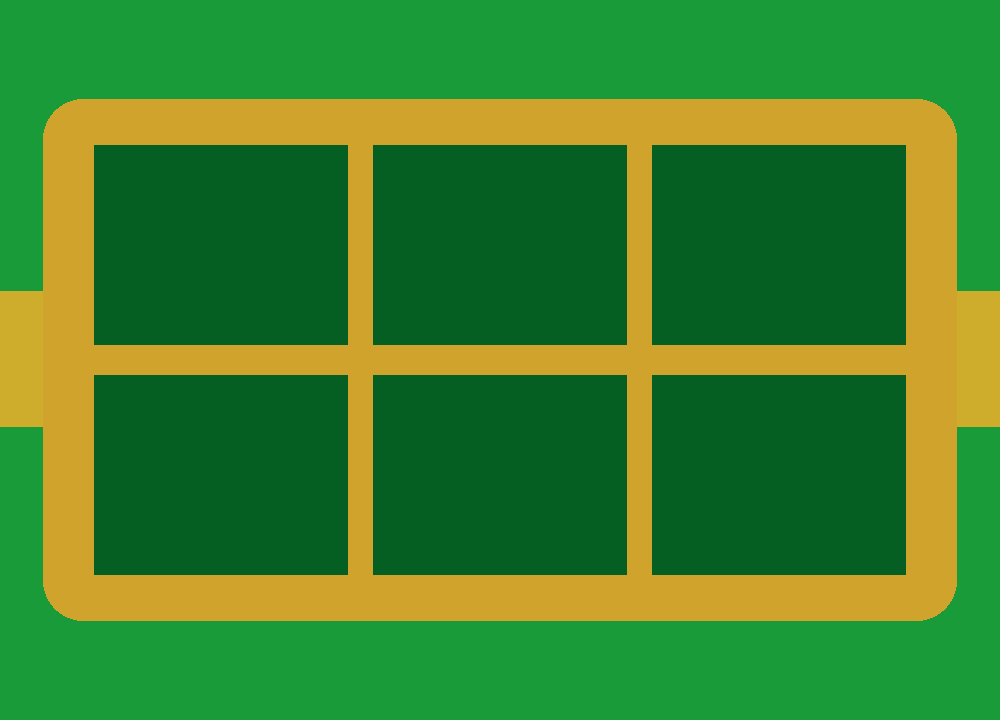
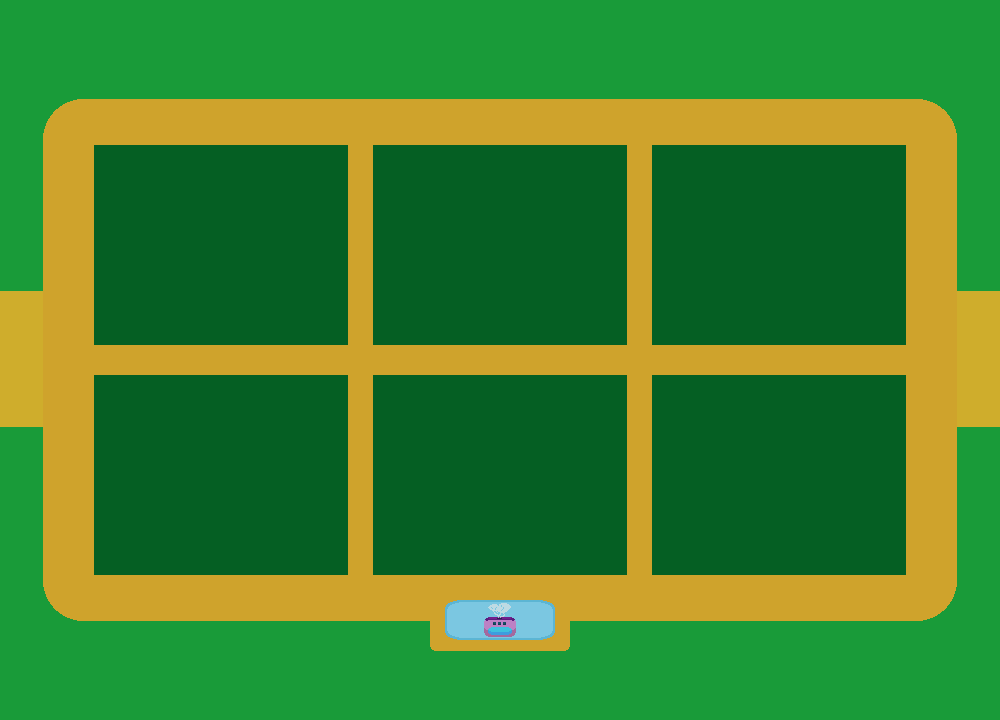
Adición de los botones para comprar las mejoras de temperatura en los hábitats

Changed region(s): [[0.434, 0.825, 0.589, 0.9167]]

diff --git a/ProyectoFinal/src/main/java/Vistas/Paneles/PanelHabitat.java b/ProyectoFinal/src/main/java/Vistas/Paneles/PanelHabitat.java
@@ -1,9 +1,14 @@
 package Vistas.Paneles;
 
+import Modelos.Enumeration.TipoComida;
 import Modelos.Utils.Habitat;
+import Modelos.Utils.Zoologico;
+import Vistas.Utils.Boton;
 
 import javax.swing.*;
 import java.awt.*;
+import java.awt.event.ActionEvent;
+import java.awt.event.ActionListener;
 
 /** Un panel que contiene paneles y botones que muestran visualmente un expendedor
  * @author Chloe Yañez Lavin
@@ -12,15 +17,16 @@ import java.awt.*;
 public class PanelHabitat extends JPanel {
     private Habitat habitat;
     private PanelRecinto[] listaPanelRecinto;
+    private Boton temperatura;
     private boolean visible;
     private int value;
+    private ComprarTemperatura comprarTemperatura;
 
     public PanelHabitat(Habitat habitat) {
         super(null);
         this.habitat = habitat;
         visible = false;
         this.setOpaque(false);
-        this.setBounds(43,100,914,522);
         listaPanelRecinto = new PanelRecinto[6];
         int j=0;
         for(int i=0; i<6; i++) {
@@ -31,17 +37,36 @@ public class PanelHabitat extends JPanel {
                 j=230;
         }
         value = habitat.getTipo().getValue();
+        temperatura = new Boton(Color.BLACK,true,"imgTemp"+habitat.getTipo().getValue()+".png");
+        temperatura.setBounds(402,500,110,40);
+        comprarTemperatura = new ComprarTemperatura();
+        temperatura.addActionListener(comprarTemperatura);
+        temperatura.setOpaque(false);
+        this.add(temperatura);
     }
-
+    public void removeBoton(Boton boton) {
+        this.remove(boton);
+        repaint();
+    }
     public void toggleVisible() {
         visible=!visible;
     }
     public boolean getVisible() { return visible; }
     public Habitat getHabitat() { return habitat; }
     public int getValue() { return value; }
-
     public PanelRecinto getPanelRecinto(int index) {
         return listaPanelRecinto[index];
+    }
+
+    private class ComprarTemperatura implements ActionListener {
+        @Override
+        public void actionPerformed(ActionEvent event) {
+            PanelLinker.getPanelPrincipal().getZoologico().comprarTemperatura(habitat.getTipo().getValue());
+            if(habitat.getTemperatura()) {
+                PanelLinker.getPanelMenu().updateDinero(PanelLinker.getPanelPrincipal().getZoologico());
+                removeBoton(temperatura);
+            }
+        }
     }
 
     /** Método para dibujar los componentes de Swing del panel

diff --git a/ProyectoFinal/src/main/java/Modelos/Enumeration/TipoHabitat.java b/ProyectoFinal/src/main/java/Modelos/Enumeration/TipoHabitat.java
@@ -1,12 +1,12 @@
 package Modelos.Enumeration;
 
 public enum TipoHabitat {
-    Bosque(1000, 1000,100,0),
-    Sabana(2000, 1000,100,1),
-    Selva(2000, 1000,100,2),
-    Acuario(3000, 1000,100,3),
-    Desierto(3000, 1000,100,4),
-    Artico(4000, 1000,100,5);
+    Bosque(1000, 1000,1500,0),
+    Sabana(2000, 1000,1500,1),
+    Selva(2000, 1000,1500,2),
+    Acuario(3000, 1000,1500,3),
+    Desierto(3000, 1000,1500,4),
+    Artico(4000, 1000,1500,5);
     private int precio;
     private int precioRecinto;
     private int precioTemperatura;

diff --git a/ProyectoFinal/src/main/java/Vistas/Paneles/PanelZoologico.java b/ProyectoFinal/src/main/java/Vistas/Paneles/PanelZoologico.java
@@ -56,6 +56,7 @@ public class PanelZoologico extends JPanel {
         int[] habPos = new int[]{50,150,250,555,655,755,250,450,50,50,450,250};
         for(int i=0; i<6; i++) {
             listaPanelHabitat[i] = new PanelHabitat(zoologico.getHabitat(i));
+            listaPanelHabitat[i].setBounds(43,100,914,550);
             selectHabitat[i] = new Boton(Color.BLACK,true,"imgHabitatLock"+i+".png");
             selectHabitat[i].addActionListener(listenerHabitat);
             addComp(selectHabitat[i],habPos[i],habPos[i+6],180,120);

diff --git a/ProyectoFinal/src/main/java/Modelos/Utils/Zoologico.java b/ProyectoFinal/src/main/java/Modelos/Utils/Zoologico.java
@@ -56,7 +56,7 @@ public class Zoologico {
 
     public void comprarHabitat(int index) {
         if(transaccion(listaHabitat[index].getTipo().getPrecio(),listaHabitat[index].getTipo().getPrecio()/100)) {
-            gananciaEsp[0] += 20;
+            gananciaEsp[0] += listaHabitat[index].getTipo().getPrecio()/100;
             listaHabitat[index].desbloquear();
         }
    }
